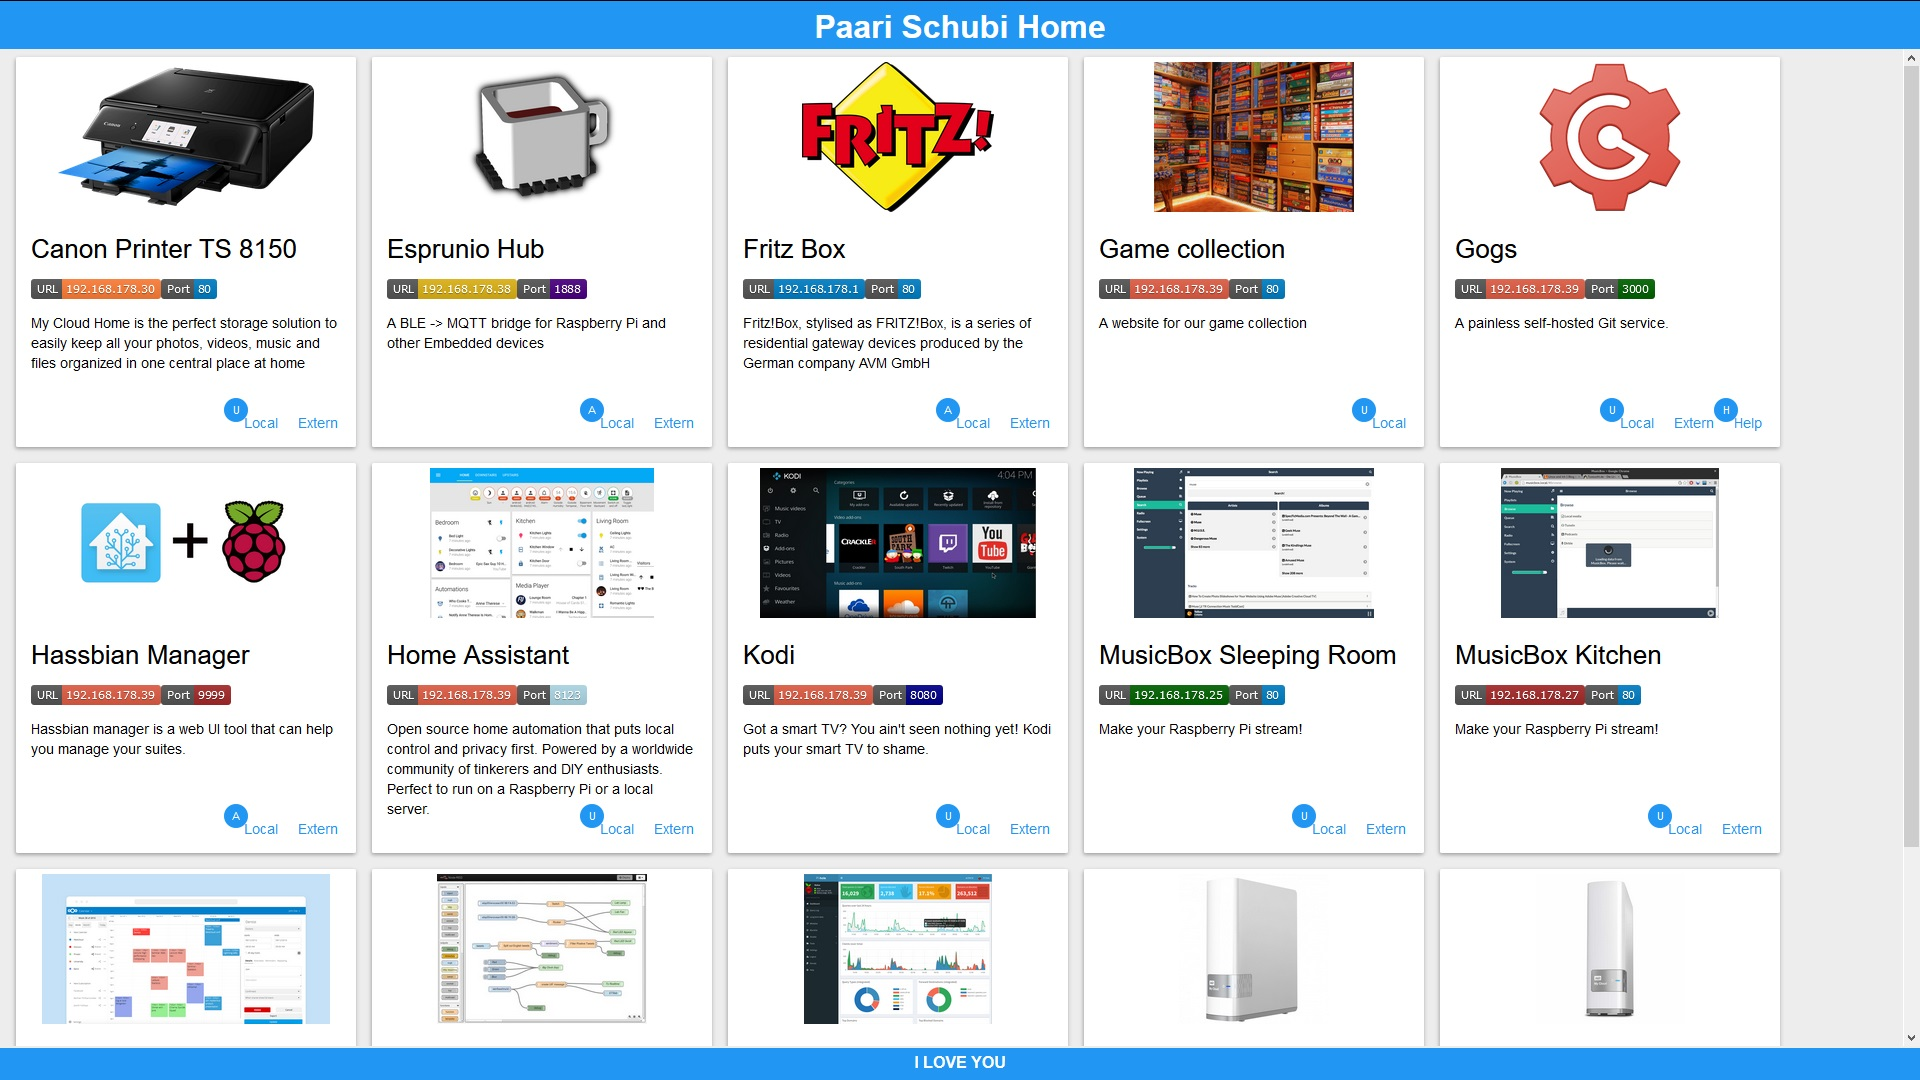
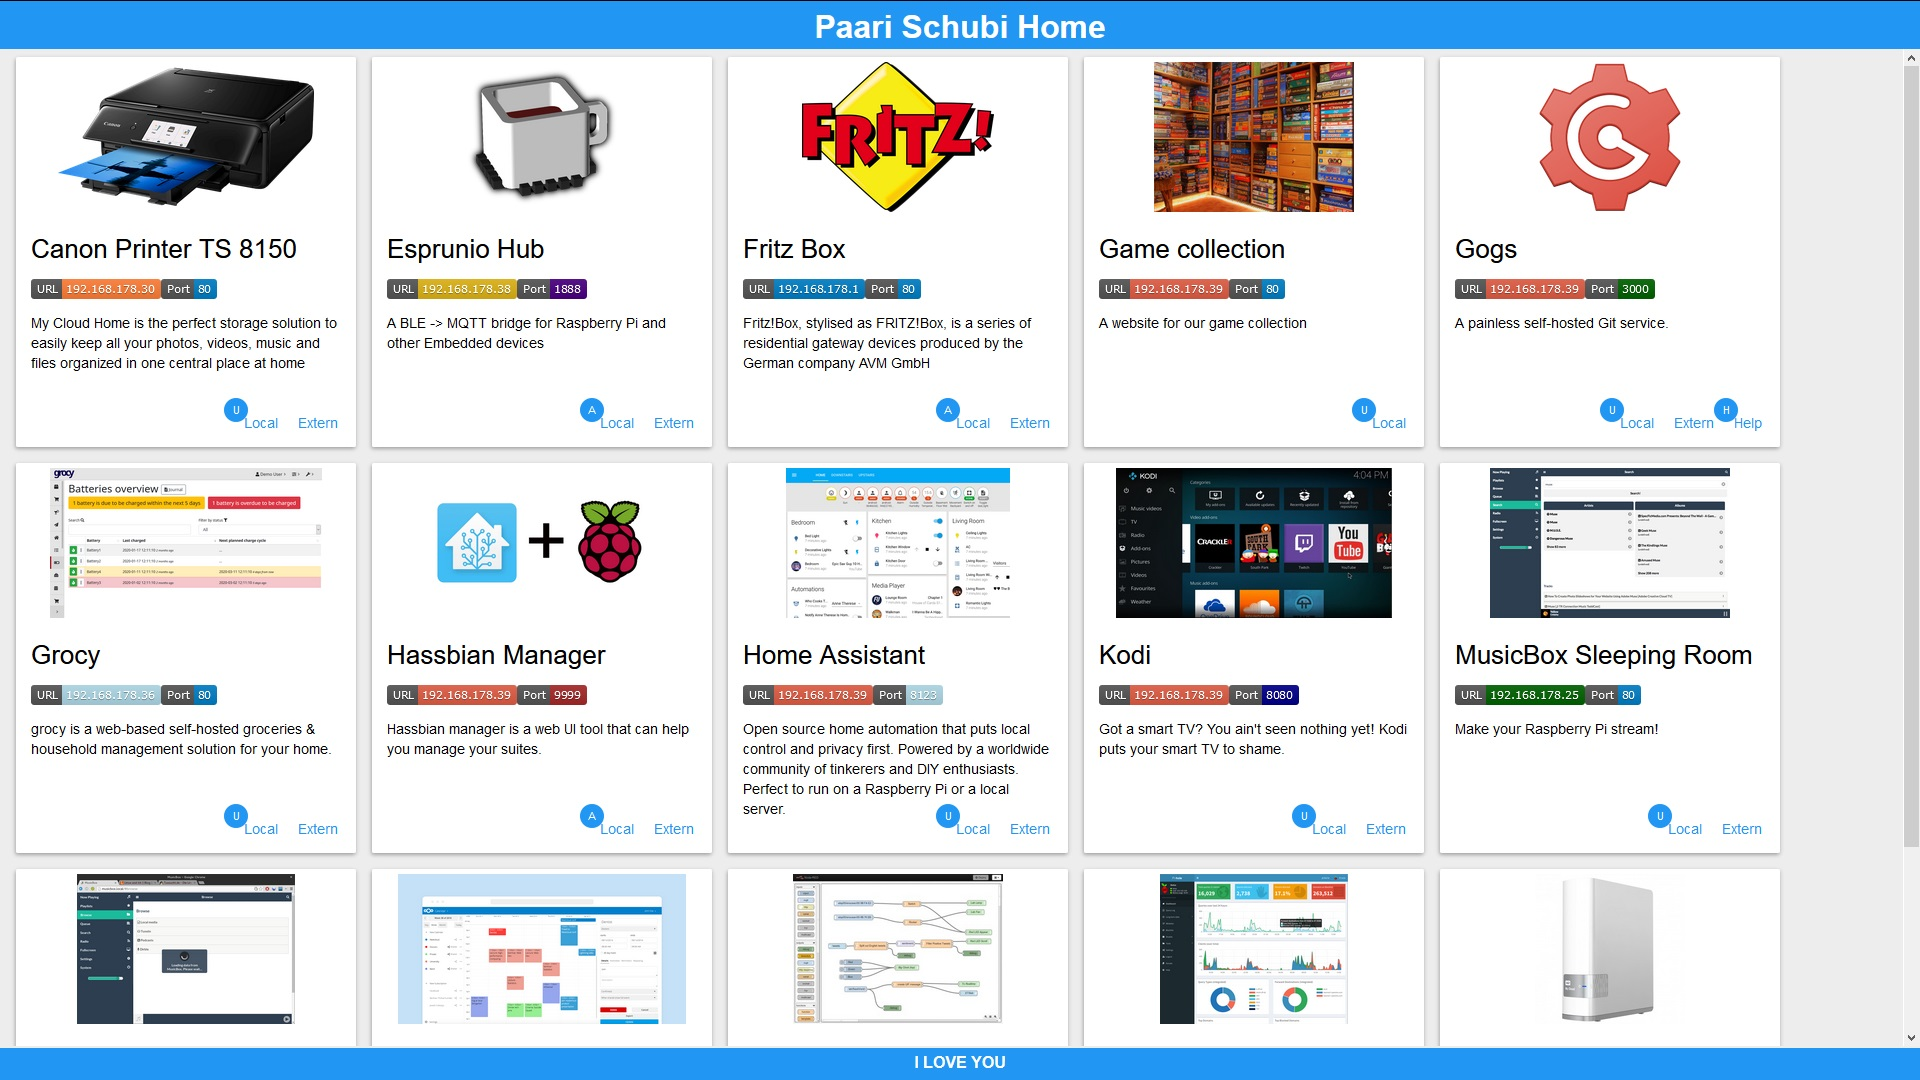
adds grocy, removes WD MyCloud 28, fixes port for Node Red

diff --git a/index.html b/index.html
@@ -86,6 +86,22 @@
                     </div>
                 </div>
             </div>
+
+            <div class="card">
+                <a href="http://192.168.178.36" target="_blank"><img class="card-image" src="https://grocy.info/img/batteries-en.png" /></a>
+                <div class="card-details">
+                    <h2 class="card-head">Grocy</h2>
+                    <div style="display: flex;">
+                        <a href="http://192.168.178.36" target="_blank"><img class="card-image" src="https://img.shields.io/badge/URL-192.168.178.36-lightblue.svg" /></a>
+                        <a href="http://192.168.178.36" target="_blank"><img class="card-image" src="https://img.shields.io/badge/Port-80-blue.svg" /></a>
+                    </div>
+                    <p>grocy is a web-based self-hosted groceries & household management solution for your home.</p>
+                    <div class="card-actions">
+                        <a href="https://grocy.info/" target="_blank" class="card-action-button">Extern</a>
+                        <a href="http://192.168.178.36" target="_blank" class="card-action-button" data-badge="U">Local</a>
+                    </div>
+                </div>
+            </div>
     
             <div class="card">
                 <a href="http://192.168.178.39:9999/" target="_blank"><img class="card-image" src="https://proxy.duckduckgo.com/iu/?u=https%3A%2F%2Fhome-assistant.io%2Fimages%2Fblog%2F2017-05-hassbian-pi-zero%2Fhome_assistant_plus_rpi_600x315.png&f=1&nofb=1" /></a>
@@ -188,8 +204,8 @@
                 <div class="card-details">
                     <h2 class="card-head">Node Red</h2>
                     <div style="display: flex;">
-                        <a href="http://192.168.178.36" target="_blank"><img class="card-image" src="https://img.shields.io/badge/URL-192.168.178.36-lightblue.svg" /></a>
-                        <a href="http://192.168.178.36" target="_blank"><img class="card-image" src="https://img.shields.io/badge/Port-1880-lightgreen.svg" /></a>
+                        <a href="http://192.168.178.36:1880" target="_blank"><img class="card-image" src="https://img.shields.io/badge/URL-192.168.178.36-lightblue.svg" /></a>
+                        <a href="http://192.168.178.36:1880" target="_blank"><img class="card-image" src="https://img.shields.io/badge/Port-1880-lightgreen.svg" /></a>
                     </div>
                     <p>Node-RED is a flow-based development tool for visual programming developed originally by IBM for wiring together hardware devices, APIs and online services as part of the Internet of Things</p>
                     <div class="card-actions">
@@ -227,22 +243,6 @@
                     <div class="card-actions">
                         <a href="https://mycloud.com/" target="_blank" class="card-action-button">Extern</a>
                         <a href="http://192.168.178.21/" target="_blank" class="card-action-button" data-badge="U">Local</a>
-                    </div>
-                </div>
-            </div>
-
-            <div class="card">
-                <a href="http://192.168.178.28/" target="_blank"><img class="card-image" src="https://proxy.duckduckgo.com/iu/?u=https%3A%2F%2F3thlkd3wpu0u1x0qbt19cxc8-wpengine.netdna-ssl.com%2Fwp-content%2Fuploads%2F2017%2F10%2FWDMyCloud.jpg&f=1&nofb=1" /></a>
-                <div class="card-details">
-                    <h2 class="card-head">WD MyCloud 28</h2>
-                    <div style="display: flex;">
-                        <a href="http://192.168.178.28/" target="_blank"><img class="card-image" src="https://img.shields.io/badge/URL-192.168.178.28-lightgrey.svg" /></a>
-                        <a href="http://192.168.178.28/" target="_blank"><img class="card-image" src="https://img.shields.io/badge/Port-80-blue.svg" /></a>
-                    </div>
-                    <p>My Cloud Home is the perfect storage solution to easily keep all your photos, videos, music and files organized in one central place at home</p>
-                    <div class="card-actions">
-                        <a href="https://mycloud.com/" target="_blank" class="card-action-button">Extern</a>
-                        <a href="http://192.168.178.28/" target="_blank" class="card-action-button" data-badge="U">Local</a>
                     </div>
                 </div>
             </div>
